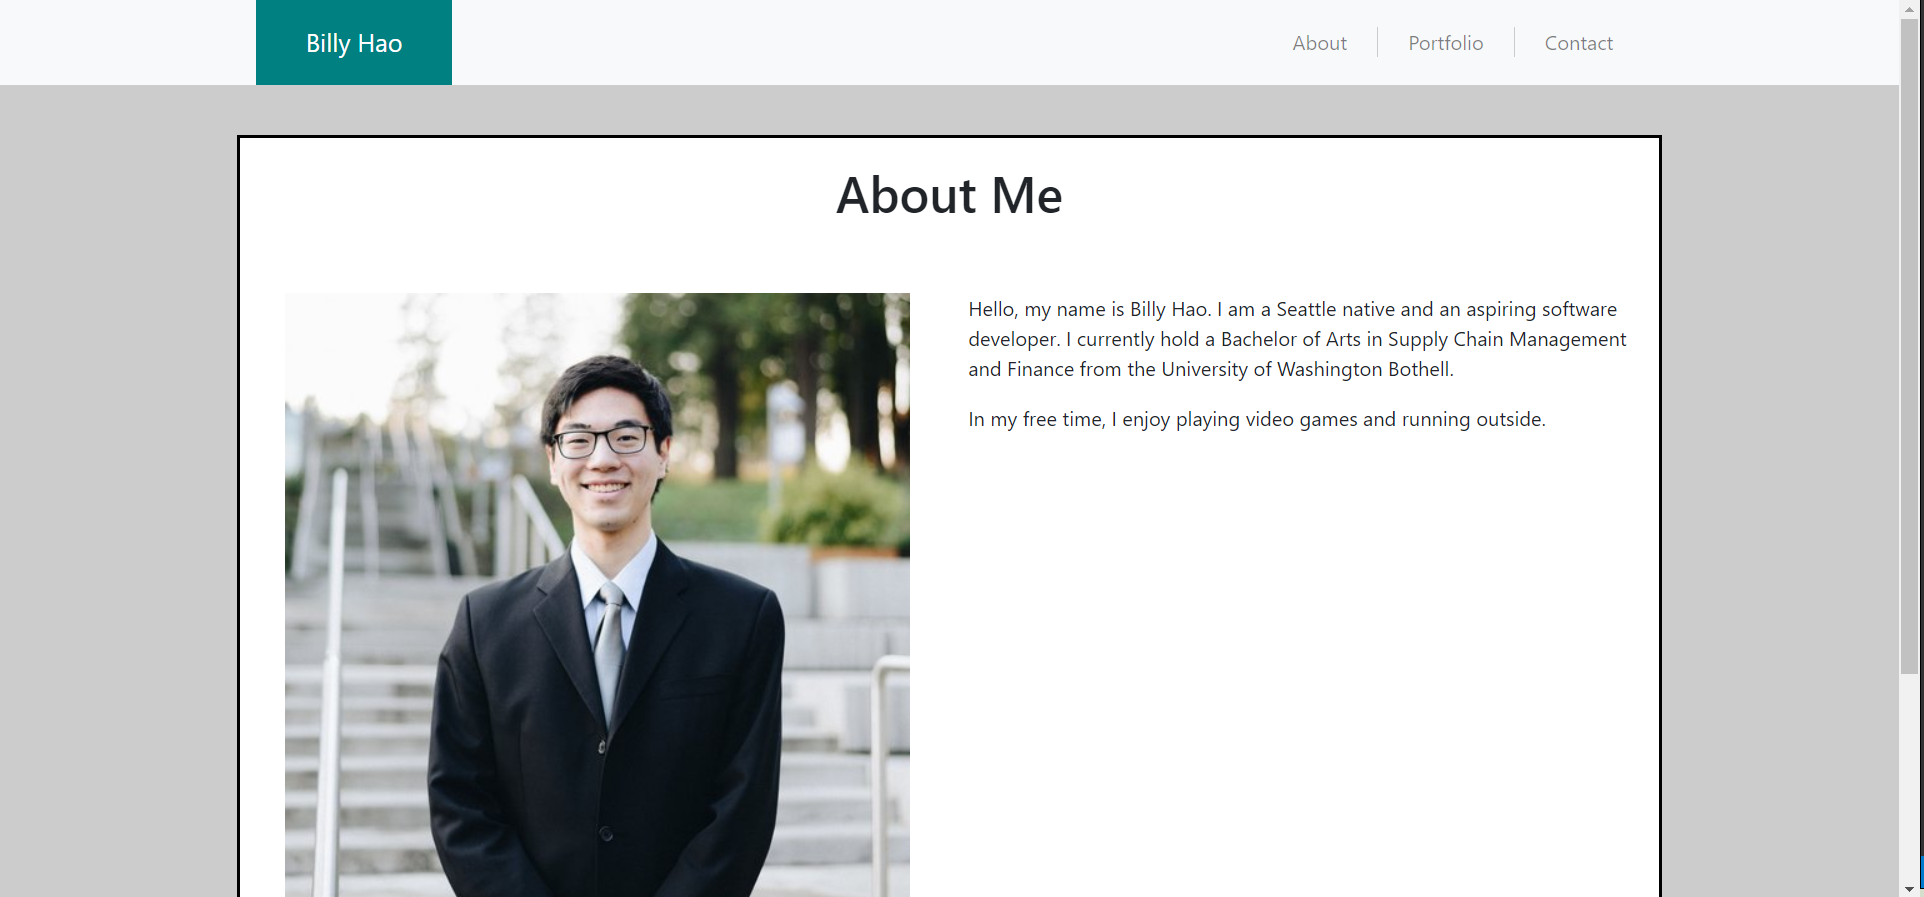
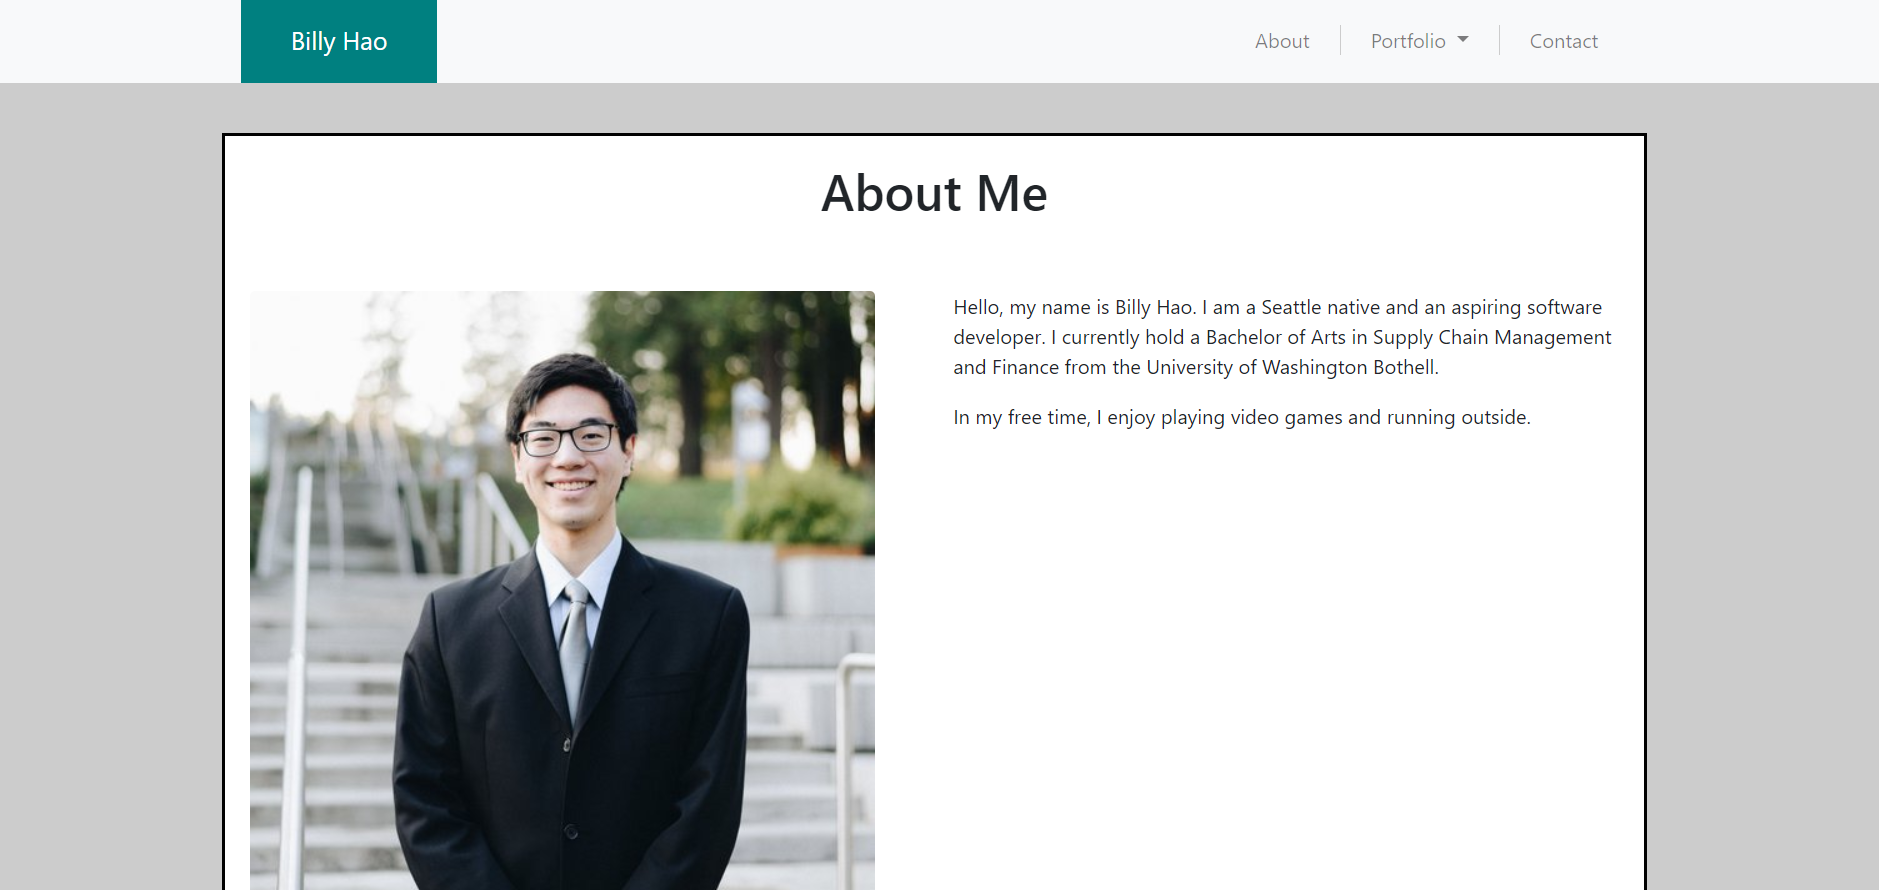
Added deployed app link to README file and updated the screenshot

diff --git a/README.md b/README.md
@@ -2,5 +2,6 @@
 
 This is a personal and professional website that includes my biography, projects I've worked on, and a contact form.
 
-Here is a screenshot of the main page:
+Access the deployed application [here](https://billyhao12.github.io/My-Portfolio/).
+
 ![Main Page](Assets/Images/main-page-screenshot.png)
